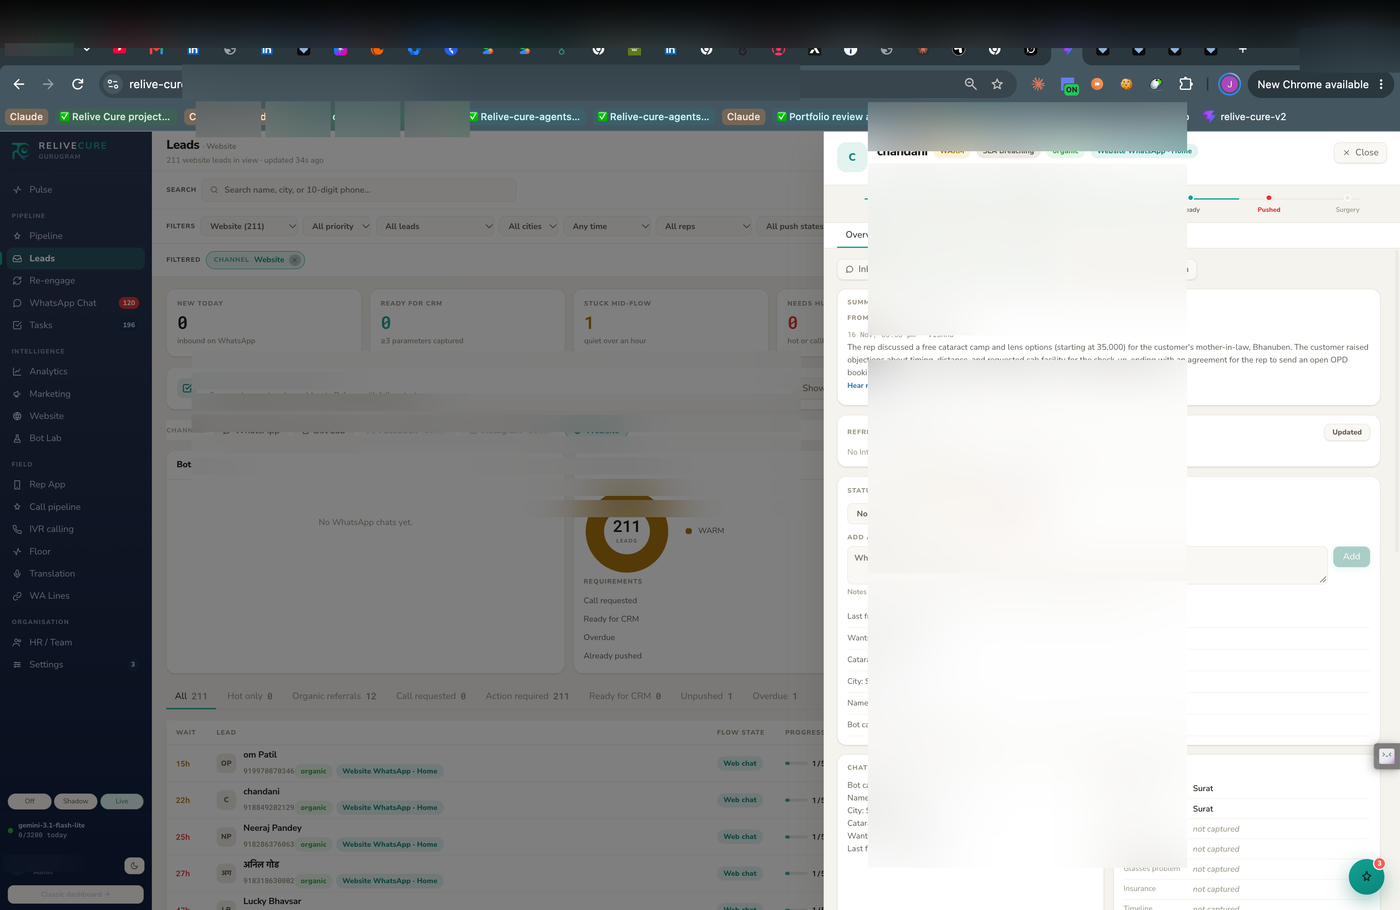
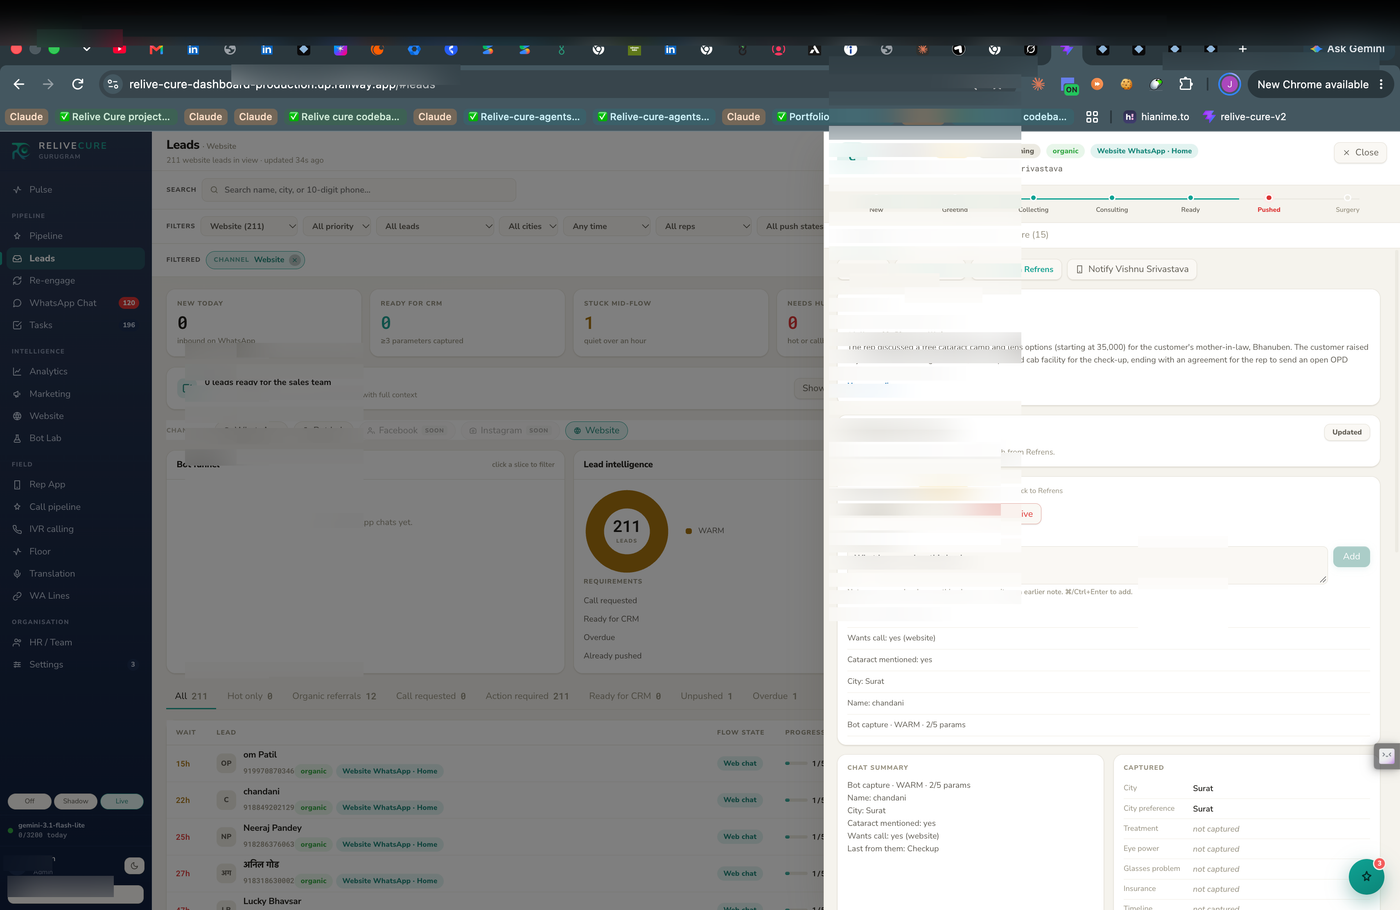
Surgical ReliveCure CRM blur; Warm Stone light tokens
Rewrite CRM redaction to glyph-sized regions only (no panel masks).
Align light mode to ui-redesign-tokens: F4F3EF paper, 7955E8 violet.
Regenerate CRM and Coke portfolio shots.

diff --git a/app/globals.css b/app/globals.css
@@ -40,22 +40,23 @@ body {
 }
 
 html[data-color-scheme="light"] {
-  --bg: #f3efe6;
-  --bg2: #fffdf9;
-  --bg3: #e8e2d8;
-  --line: #ddd6ca;
-  --line2: #cfc6b8;
-  --ink: #111111;
-  --ink2: #333333;
-  --ink3: #666666;
-  --accent: #6d4ed6;
-  --accent2: #5a3fc0;
-  --accent3: #8b6ce8;
-  --neon1: #6d4ed6;
-  --neon2: #8b6ce8;
-  --neon3: #5a3fc0;
-  --neon4: #6d4ed6;
-  --on-accent: #fffdf9;
+  --bg: #f4f3ef;
+  --bg2: #ffffff;
+  --bg3: #eeede8;
+  --line: #e2e0d9;
+  --line2: #e2e0d9;
+  --ink: #201f2a;
+  --ink2: #201f2a;
+  --ink3: #777783;
+  --accent: #7955e8;
+  --accent2: #7955e8;
+  --accent3: #7955e8;
+  --neon1: #7955e8;
+  --neon2: #7955e8;
+  --neon3: #7955e8;
+  --neon4: #7955e8;
+  --accent-soft: #eae4fc;
+  --on-accent: #ffffff;
 }
 
 html,
@@ -2649,7 +2650,7 @@ html[data-color-scheme="light"] .pt-nav--scrolled {
 
 html[data-color-scheme="light"] .pt-nav-link--active {
   color: var(--accent);
-  background: color-mix(in srgb, var(--accent) 12%, var(--bg2));
+  background: var(--accent-soft, #eae4fc);
   border-radius: 999px;
   padding: 6px 12px;
 }
@@ -2774,8 +2775,8 @@ html[data-color-scheme="light"] .pt-work-pick__icon {
   place-items: center;
   font-size: 15px;
   color: var(--accent);
-  background: color-mix(in srgb, var(--accent) 10%, var(--bg2));
-  border: 1px solid color-mix(in srgb, var(--accent) 18%, var(--line));
+  background: var(--accent-soft, #eae4fc);
+  border: 1px solid var(--line);
 }
 
 html[data-color-scheme="light"] .pt-work-pick__text {

diff --git a/lib/prototype-colors.ts b/lib/prototype-colors.ts
@@ -22,17 +22,17 @@ export function getColors(theme: ColorScheme): ThemeColors {
   const base =
     theme === "light"
       ? {
-          bg: "#f3efe6",
-          bg2: "#fffdf9",
-          bg3: "#e8e2d8",
-          line: "#ddd6ca",
-          line2: "#cfc6b8",
-          ink: "#111111",
-          ink2: "#333333",
-          ink3: "#666666",
-          accent: "#6d4ed6",
-          accent2: "#5a3fc0",
-          accent3: "#8b6ce8",
+          bg: "#F4F3EF",
+          bg2: "#FFFFFF",
+          bg3: "#EEEDE8",
+          line: "#E2E0D9",
+          line2: "#E2E0D9",
+          ink: "#201F2A",
+          ink2: "#201F2A",
+          ink3: "#777783",
+          accent: "#7955E8",
+          accent2: "#7955E8",
+          accent3: "#7955E8",
         }
       : {
           bg: "#0a0b14",
@@ -50,10 +50,10 @@ export function getColors(theme: ColorScheme): ThemeColors {
 
   return {
     ...base,
-    neon1: theme === "light" ? "#6d4ed6" : "#8b9cff",
-    neon2: theme === "light" ? "#8b6ce8" : "#b9a4ff",
-    neon3: theme === "light" ? "#5a3fc0" : "#9b82ff",
-    neon4: theme === "light" ? "#6d4ed6" : "#c4b5fd",
+    neon1: theme === "light" ? "#7955E8" : "#8b9cff",
+    neon2: theme === "light" ? "#7955E8" : "#b9a4ff",
+    neon3: theme === "light" ? "#7955E8" : "#9b82ff",
+    neon4: theme === "light" ? "#7955E8" : "#c4b5fd",
   };
 }
 

diff --git a/components/prototype/background-canvas.tsx b/components/prototype/background-canvas.tsx
@@ -673,8 +673,8 @@ export default function BackgroundCanvas({ theme }: BackgroundCanvasProps) {
         const light = themeRef.current === "light";
         const sky = ctx.createLinearGradient(0, 0, 0, h);
         if (light) {
-          sky.addColorStop(0, "#f3efe6");
-          sky.addColorStop(1, "#ebe6dc");
+          sky.addColorStop(0, "#F4F3EF");
+          sky.addColorStop(1, "#EEEDE8");
         } else {
           sky.addColorStop(0, "#060712");
           sky.addColorStop(1, "#0d1224");
@@ -711,7 +711,7 @@ export default function BackgroundCanvas({ theme }: BackgroundCanvasProps) {
       }
       ctx.globalAlpha = 1;
 
-      const dataAlpha = light ? 0.22 : 0.55;
+      const dataAlpha = light ? 0.16 : 0.55;
 
       if (t - lastDomRefresh > DOM_REFRESH_MS) {
         lastDomRefresh = t;
